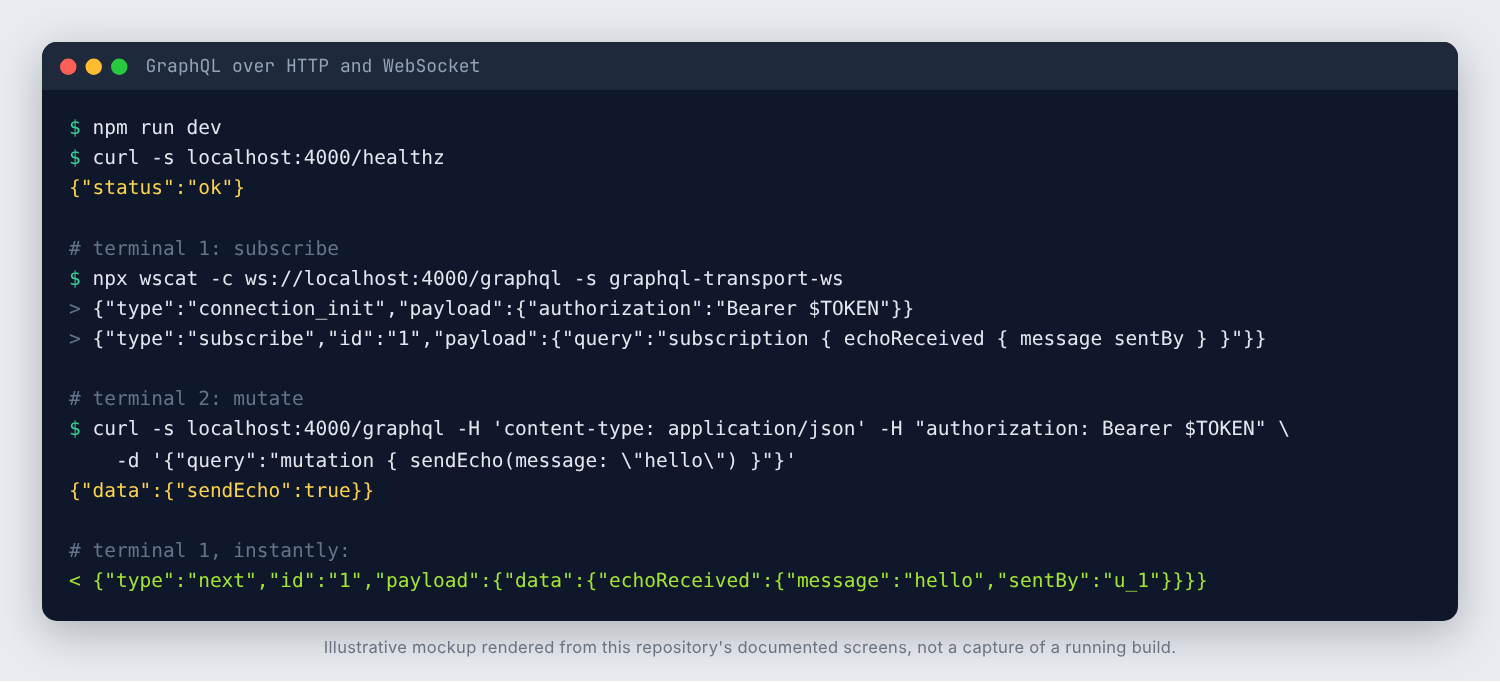
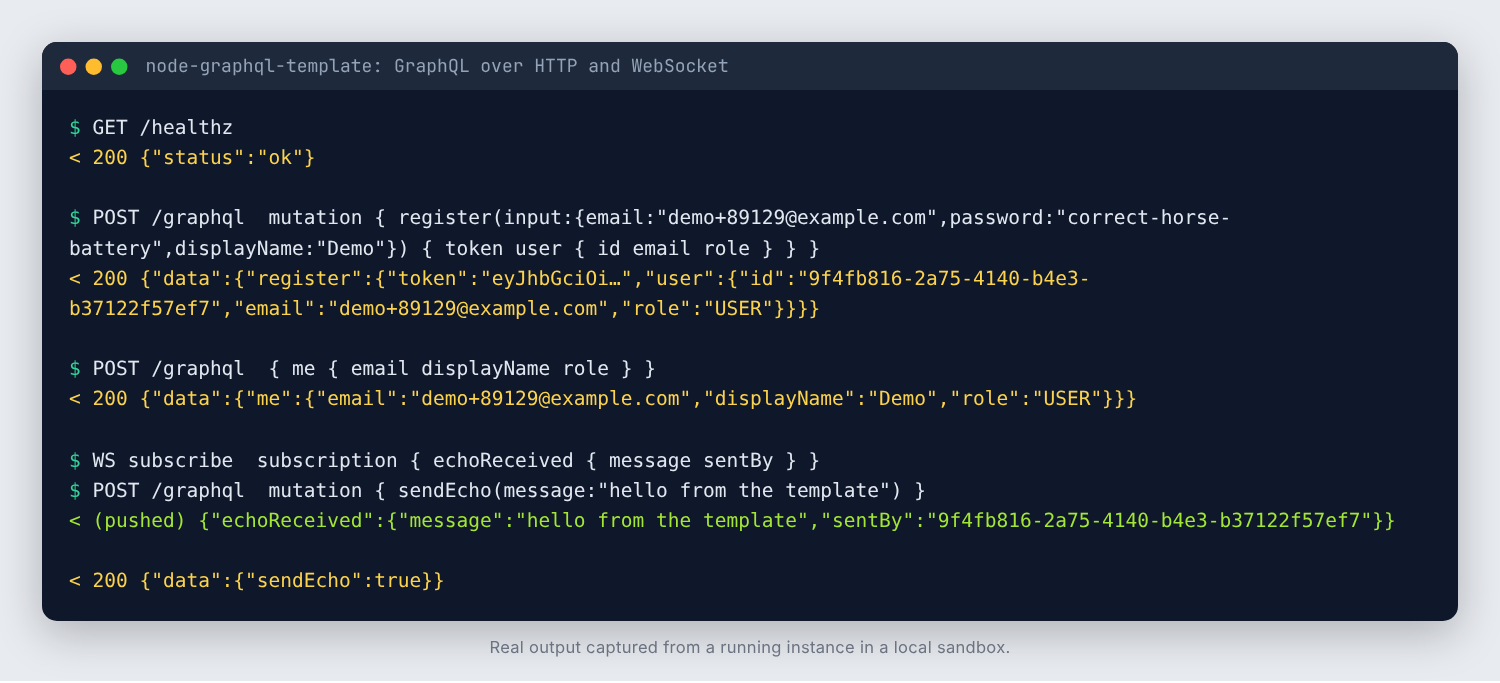
Replace mockup with real captured GraphQL session
Claude-Session: https://claude.ai/code/session_01MMnAbBEvfYn2oeVzGWoYsN

diff --git a/README.md b/README.md
@@ -7,7 +7,7 @@ Starter template for a GraphQL + WebSocket API: Express 5, Apollo Server 5,
 
 ![GraphQL mutation and subscription](docs/screenshots/graphql.png)
 
-_These images are illustrative mockups rendered from this repository's documented screens and API shapes, not captures of a running build. Regenerate or replace them with real captures once the app is running._
+_Real output captured from a locally running instance (register, query, mutation and a live WebSocket subscription against PostgreSQL). Regenerate it by running the server and repeating those calls._
 
 ## What is included
 
